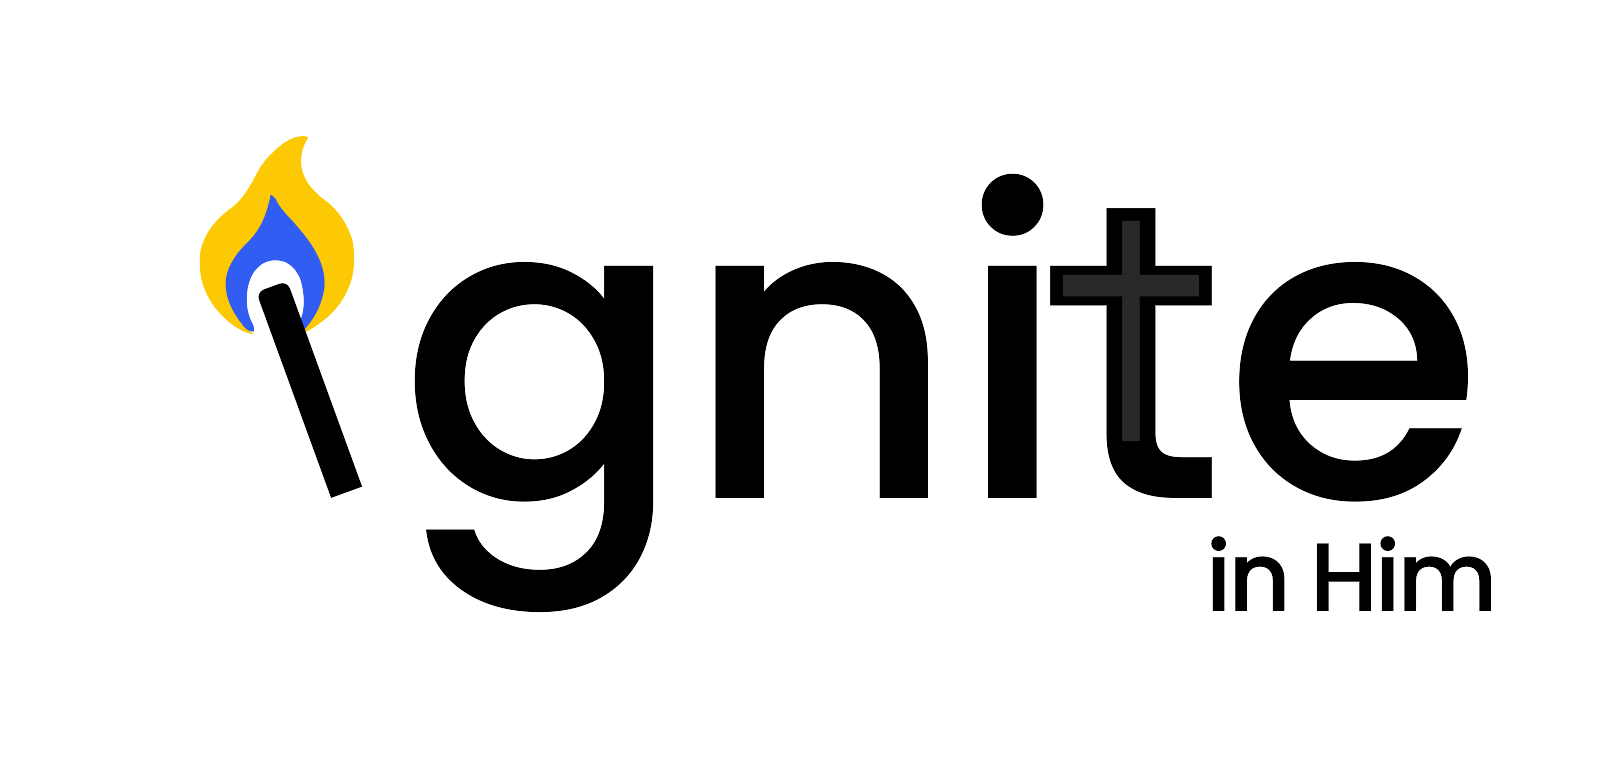
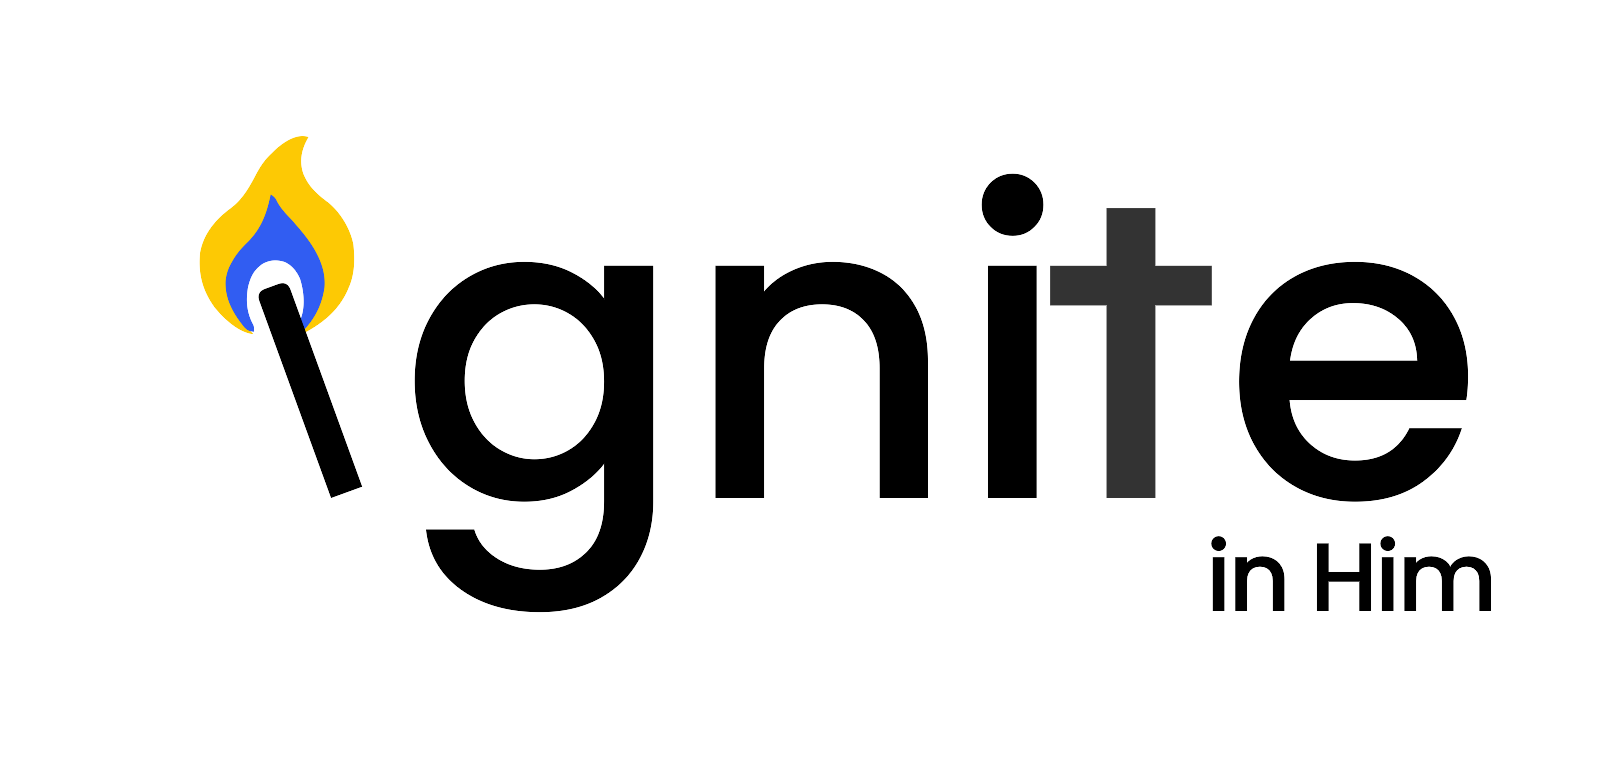
Make the t itself a balanced charcoal cross

Changed region(s): [[0.6562, 0.2724, 0.7812, 0.6658]]

diff --git a/final/brand/explorations/matchstick-i-cross/README.md b/final/brand/explorations/matchstick-i-cross/README.md
@@ -1,7 +1,5 @@
-# Subtle cross explorations
+# Cross-shaped t explorations
 
-Additional review assets, preserving the previous comparison and all approved files.
+The original layout and both matchstick-i variants use a single charcoal (#333333) cross silhouette in place of the t. The t itself is the cross: there is no inset, outline, or frame. Its horizontal arms extend equally from the stem, and the stem ends straight at the baseline. The dark charcoal takes its cue from the supplied tonal reference.
 
-The original layout and both matchstick-i variants now contain a dark charcoal (#292929) cross inset into the black t. The t’s left arm is extended to match the right arm; the curved foot and stem proportions are retained. The inset cross is centered on the stem with equal horizontal arms.
-
-Each logo is provided as a self-contained SVG and transparent PNG. `ignite-logo-cross-comparison.png` shows all three on the same comparison sheet. Website and presentation slides are unchanged.
+Each logo is provided as a self-contained SVG and transparent PNG. `ignite-logo-cross-comparison.png` shows all three together. The previous no-cross comparison, approved brand assets, website, and presentation slides remain unchanged.
